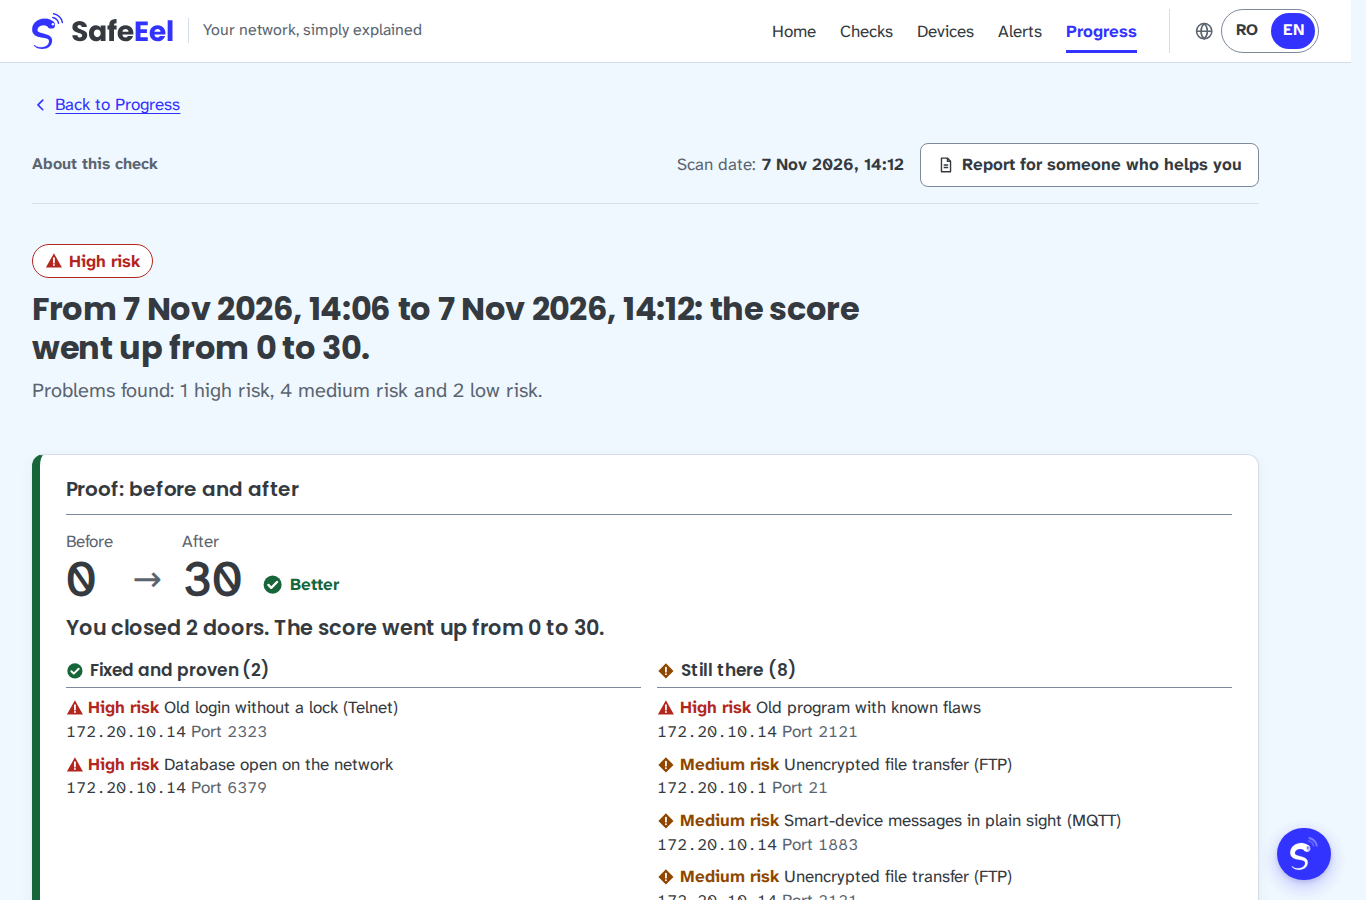
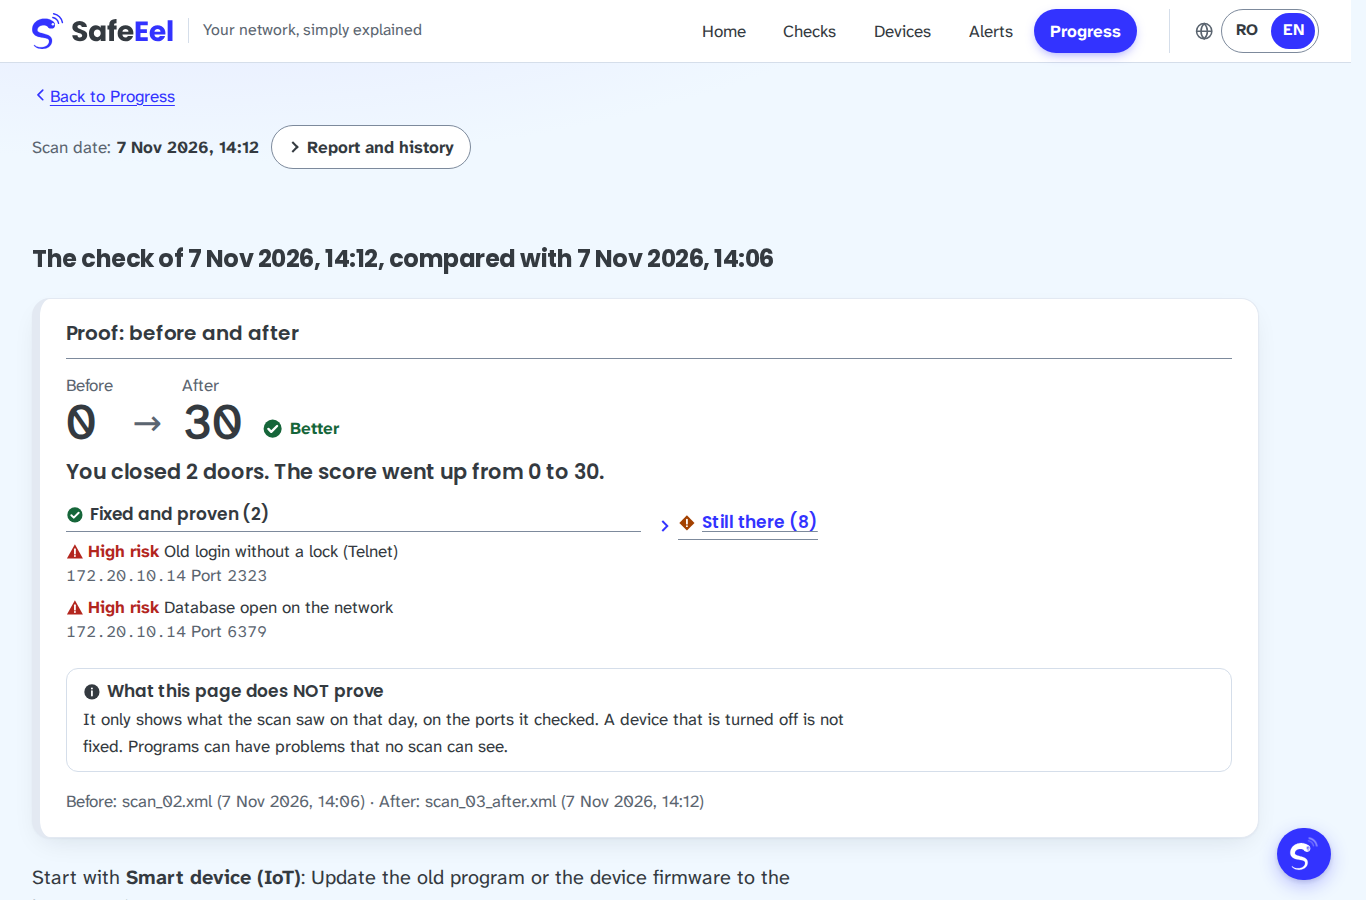
docs: capturile pentru Planul B refacute dupa UI-ul de acum; pitch aliniat la regula noua (Am facut asta verifica doar cea mai noua scanare: Scaneaza acum inainte de jurizare), ghidul pas cu pas, numarul de teste reverificat (1 608); gitleaks 8.30.1 rulat: no leaks found

diff --git a/docs/pitch.md b/docs/pitch.md
@@ -1,7 +1,7 @@
 # Pitch · SafeEel (Ibiza2028) · 7 minutes
 
 > The pitch is in English; all four of us speak. Each part lists **what to say**, **how long**, and **what is on screen**.
-> About 140 spoken words per minute. Every figure below comes from the repo (see [technical.md](technical.md), "Cifre") and was re-checked on 8 Nov 2026.
+> About 140 spoken words per minute. Every figure below comes from the repo (see [technical.md](technical.md), "Cifre") and was re-checked on 8 Nov 2026 (screenshots: current UI, 8 Nov, 04:30).
 > The app menu is **Home · Checks · Devices · Alerts · Progress**. Plan B screenshots are in [`docs/pitch/`](pitch/).
 
 | Time | Part | Speaker |
@@ -31,17 +31,19 @@
 
 ## 1:00–3:30 · Live demo (Radu, 2 min 30 s)
 
-**On screen:** `python -m netscan ui` on `127.0.0.1:5000`, with `NETSCAN_SCANS_DIR=fixtures/lab` (our lab: one hotspot, one scanner laptop, one target laptop with Docker). The demo laptop is on the hotspot, with `NETSCAN_EXPECTED_SSID` in `.env`. Before the session the lab is **running**, so the problems really exist. Full checklist: [demo.md](demo.md).
+**On screen:** `python -m netscan ui` on `127.0.0.1:5000`, with `NETSCAN_SCANS_DIR=fixtures/lab` (our lab: one hotspot, one scanner laptop, one target laptop with Docker). The demo laptop is on the hotspot, with `NETSCAN_EXPECTED_SSID` in `.env`.
+
+**Right before the session:** with the lab **running**, press **Scan now** in SafeEel, so the newest check is of our network right now. "I did this, check it" only works on that newest scan, on our own hotspot; on an older scan or a file it is greyed out and says why. Save `scan_01_before.xml` and `scan_03_after.xml` to history for the before/after part. Full checklist: [demo.md](demo.md).
 
 | Time | Click | Say |
 |---|---|---|
-| 1:00 | **Home**, scan `scan_01_before.xml` | "This is our lab network, scanned with the tool. The first thing you read is the verdict: your network needs attention. Score: zero out of a hundred." |
+| 1:00 | **Home**, the scan made just now | "This is our lab network, scanned a few minutes ago with the tool. The first thing you read is the verdict: your network needs attention, and the score next to it." |
 | 1:15 | Point at the sentence under the verdict | "And right under it, the answer to the only question that matters: start with this device, do this." |
 | 1:30 | Point at **Most dangerous device** | "It is this smart device. High risk, shown with a triangle and a word, not just a colour. One sentence says what is wrong, in words a twelve-year-old understands, and one line says what an attacker could do." |
-| 1:50 | Point at **Do this first** | "One step, not a list of forty. And it tells you where to do it." |
-| 2:00 | On the target laptop: `docker compose -f lab/docker-compose.yml stop redis`. Back in SafeEel, on the database step: **I did this, check it** | "We just turned off the exposed database. Now, when I say I fixed it, SafeEel does not take my word for it: it knocks once on that port, only on our own hotspot. Nobody answers, so the step is confirmed, and the engine recalculates the score." |
+| 1:50 | Point at **Do this first** and **Show me how, step by step** | "One step, not a list of forty. And if you don't know where that setting is, it shows you, step by step." |
+| 2:00 | On the target laptop: `docker compose -f lab/docker-compose.yml stop redis`. Back in SafeEel, on the database step (use **Skip for now** to reach it): **I did this, check it** | "We just turned off the exposed database. Now, when I say I fixed it, SafeEel does not take my word for it: it knocks once on that port, only on our own hotspot. Nobody answers, so the step is confirmed, and the engine recalculates the score." |
 | 2:35 | **Progress** tab: score over time | "Every scan is saved on this laptop. Here is the score over time." |
-| 2:50 | **See the proof** on `scan_03_after.xml` | "Before and after: zero to thirty. Two problems fixed, two doors closed, and what is still open is still listed. Nothing hidden." |
+| 2:50 | **See the proof** on `scan_03_after.xml` (saved lab pair) | "Here is the proof from our lab: before and after, zero to thirty. Two problems fixed, two doors closed, and what is still open is still listed. Nothing hidden." |
 | 3:10 | **Ask the AI assistant** → "What should I do first?" | "And if you are not sure, you just ask. The answer is built from your scan. Ayan will explain why you can trust it." |
 
 If the target laptop is not reachable: skip the 2:00 row and say "on our hotspot this step is confirmed with a single connection; here the laptop is not on the network, so SafeEel refuses to touch it". That refusal is also the guardrail working.
@@ -80,7 +82,7 @@ Expected: `Validator: text REJECTED, the predefined answer would be shown. Reaso
 **Say:**
 > On the official Validation Set we match the answer key exactly: **24 of 24** finding rows and **8 of 8** scores, including the broken file reported as an error instead of crashing.
 >
-> On top of that we wrote **24 trap files** of our own, and we have **1,591 automated tests**. Two runs of the analysis give identical files.
+> On top of that we wrote **24 trap files** of our own, and we have **1,608 automated tests**. Two runs of the analysis give identical files.
 >
 > In our own lab, the score went from **0 to 30** after we fixed two problems.
 >
@@ -92,7 +94,7 @@ Expected: `Validator: text REJECTED, the predefined answer would be shown. Reaso
 |---|---|
 | 24/24 rows, 8/8 scores | `python -m netscan analyze fixtures/validation`, compared with `fixtures/validation/expected_*.csv`; also `results/` (the hour-16 check) |
 | 24 trap files | `fixtures/traps/` (T01–T24) |
-| 1,591 tests | `pytest -q` on `main`, 8 Nov 2026 (1,591 passed, 1 skipped); **re-check on the `final` tag** |
+| 1,608 tests | `pytest -q` on `main`, 8 Nov 2026 (1,608 passed, 1 skipped); **re-check on the `final` tag** |
 | 0 → 30 | `fixtures/lab/scan_01_before.xml` → `scan_03_after.xml`, [lab.md](lab.md) |
 | 17.7 MB in ~5 s | measured 4.5–5.2 s (22,780 devices, 28,475 findings) under WSL |
 | LIX 40 RO / 35 EN | `python scripts/plain_language_report.py` (40.4 / 35.3) |
@@ -153,8 +155,8 @@ Switch to the screenshots in [`docs/pitch/`](pitch/) and tell the same story. Do
 
 | File | Shows | Use at |
 |---|---|---|
-| `1_home_most_dangerous.png` | Home: verdict, "start with", most dangerous device, what an attacker could do, "Do this first" | 1:00–2:00 |
-| `2_device_steps.png` | One device: explanation and all repair steps | 1:50 |
+| `1_home_most_dangerous.png` | Home: verdict, risk labels, "start with", score, most dangerous device, what an attacker could do, "Do this first" (here "I did this, check it" is greyed out, because it is an older lab scan) | 1:00–2:00 |
+| `2_device_steps.png` | One device: masked MAC, its problems, explanation and repair steps | 1:50 |
 | `3_progress_trend.png` | Progress: score over time 0 → 30 | 2:35 |
 | `4_before_after.png` | Proof: before and after, 2 problems fixed, 2 ports closed | 2:50 |
 | `5_assistant.png` | Assistant answering "What should I do first?" | 3:10 |

diff --git a/docs/technical.md b/docs/technical.md
@@ -33,7 +33,7 @@ Problemele, severitățile și scorul vin **doar din reguli**, la fel la fiecare
 
 ## Cifre
 - **Validation Set:** 24/24 de rânduri și 8/8 scoruri identice cu baremul (V7 = ERROR, fără crash); două rulări dau fișiere identice.
-- **24 de fișiere-capcană** proprii și **1 591 de teste** automate (`pytest -q`).
+- **24 de fișiere-capcană** proprii și **1 608 teste** automate (`pytest -q`).
 - **Viteză:** Validation Set analizat sub o secundă; un XML de 17,7 MB în circa 5 s; scanare live /28 în 3 min 25 s.
 - **Explicații:** trec un test automat de limbaj simplu (fără jargon neexplicat, propoziții de max. 20 de cuvinte, pași care încep cu o acțiune, LIX mediu 40 RO / 35 EN). Testul e automat; nu au fost testate cu un om netehnic.
 - **Securitate:** gitleaks fără secrete; MAC-uri mascate peste tot; SQL parametrizat; buton „șterge istoricul”.
